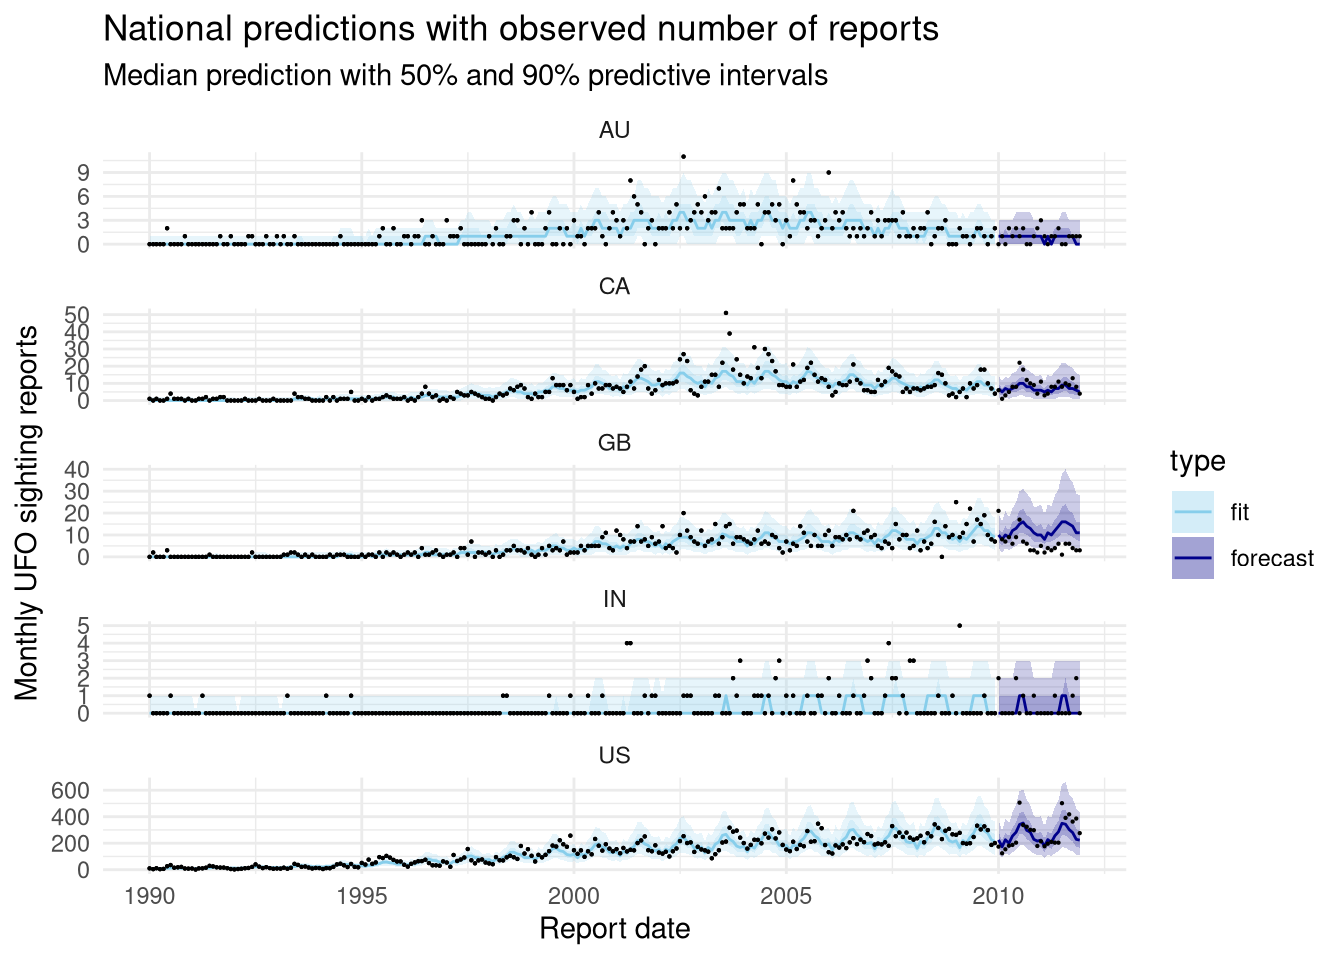
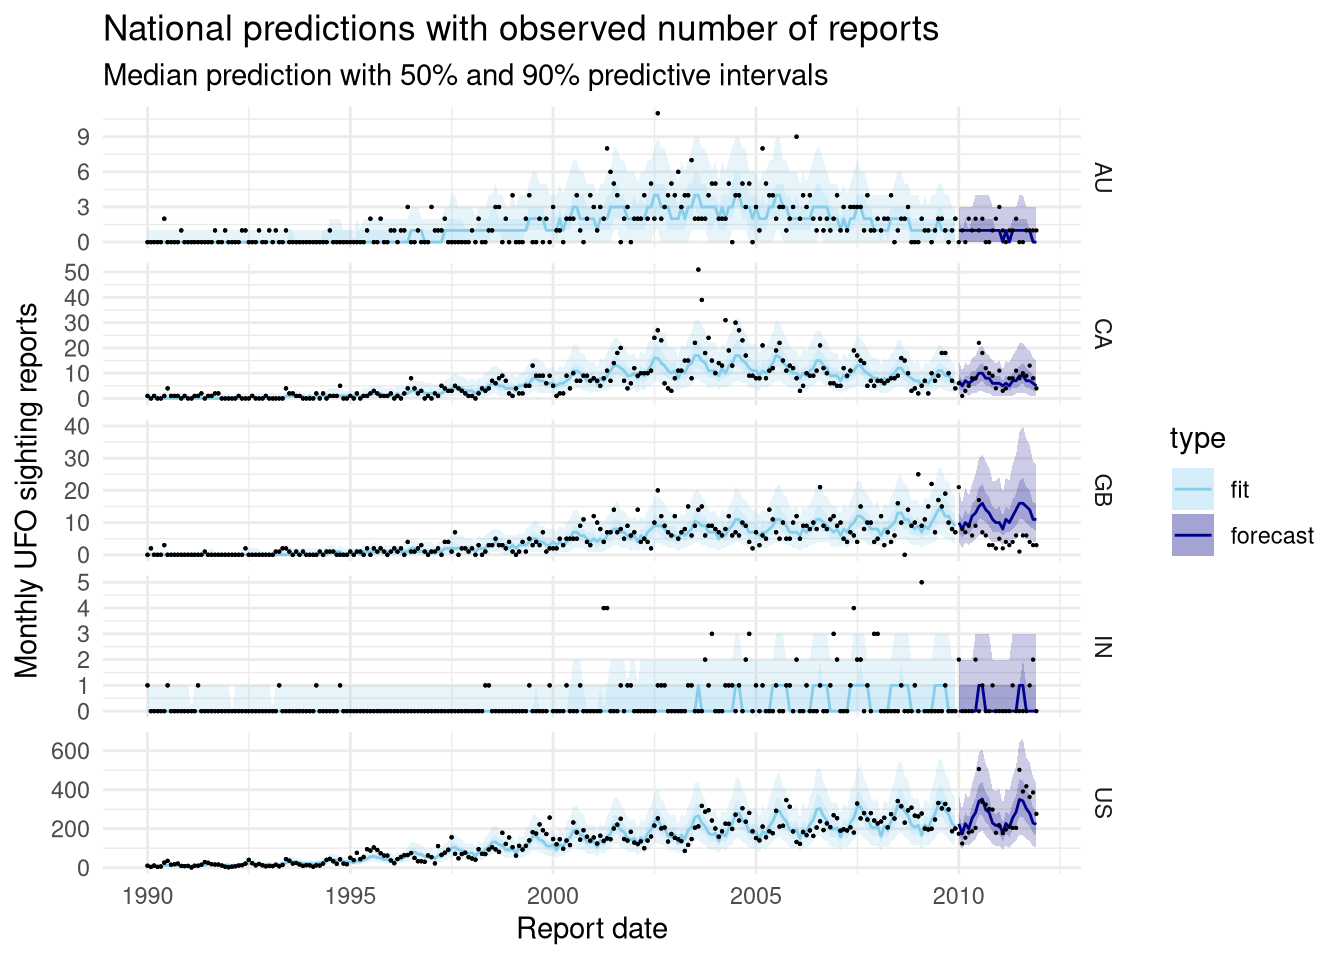
typos etc

diff --git a/_site/projects/unidentified-forecasting-object.html b/_site/projects/unidentified-forecasting-object.html
@@ -176,7 +176,7 @@ window.Quarto = {
 
 <meta name="twitter:title" content="Unidentified forecasting object – Jack Kennedy">
 <meta name="twitter:description" content="Using epidemiological forecasting methods to predict the number of reported UFO sightings">
-<meta name="twitter:image" content="unidentified-forecasting-object_files/figure-html/plot-sighting-1.png">
+<meta name="twitter:image" content="https://jcken95.github.io/projects/unidentified-forecasting-object_files/figure-html/plot-sighting-1.png">
 <meta name="twitter:card" content="summary_large_image">
 </head>
 
@@ -726,7 +726,7 @@ window.Quarto = {
 </div>
 <p>I’ve not displayed all the data here, just a few rows to get a feel for things. We know when and where the report was made, and we have a bit of an eye witness report. Apparently one UFO looked like a black tic-tac moving at insane speed, and apparently someone was even scanned by two aliens!</p>
 <p>I need to reshape this data to make modelling possible. In epidemiology, we often have a “line list” which is a bit like our set of reports. Each row will be the result of a test for a particular disease, as well as information about when the test was taken and information about who took the test (for example, their age and biological sex). Here we have a time of a report and a location – this is our line list!</p>
-<p>For modelling and patient-privacy reasons, we almost always work with a set of daily case totals rather than line lists. I’m therefore going to count up the number of reports made each month in each region, but I am going to restrict this analysis to countries who have reported at least 200 sightings. This is going to simplify the analysis later on as we will be working with fewer regions, but the overall principles, code, and mathematical ideas generalise, it’s basically just a case of scaling compute. In general, it’s a bad idea to omit a region solely due to infrequent or low reporting.</p>
+<p>For modelling and patient-privacy reasons, we almost always work with a set of daily case totals rather than line lists. I’m therefore going to count up the number of reports made each month in each country, but I am going to restrict this analysis to countries who have reported at least 200 sightings. This is going to simplify the analysis later on as we will be working with fewer regions, but the overall principles, code, and mathematical ideas generalise, it’s basically just a case of scaling compute. In general, it’s a bad idea to omit a region solely due to infrequent or low reporting.</p>
 <p>After a bit of wrangling we can get our data into a format which is the total number of reports per month, per region</p>
 <div class="cell">
 <details class="code-fold">
@@ -1250,7 +1250,7 @@ window.Quarto = {
 <span id="cb3-12"><a href="#cb3-12" aria-hidden="true" tabindex="-1"></a>  ggplot2<span class="sc">::</span><span class="fu">ggplot</span>(</span>
 <span id="cb3-13"><a href="#cb3-13" aria-hidden="true" tabindex="-1"></a>    ggplot2<span class="sc">::</span><span class="fu">aes</span>(<span class="at">x =</span> month_year, <span class="at">y =</span> sightings_month)</span>
 <span id="cb3-14"><a href="#cb3-14" aria-hidden="true" tabindex="-1"></a>  ) <span class="sc">+</span></span>
-<span id="cb3-15"><a href="#cb3-15" aria-hidden="true" tabindex="-1"></a>  ggplot2<span class="sc">::</span><span class="fu">geom_point</span>() <span class="sc">+</span></span>
+<span id="cb3-15"><a href="#cb3-15" aria-hidden="true" tabindex="-1"></a>  ggplot2<span class="sc">::</span><span class="fu">geom_point</span>(<span class="at">size =</span> <span class="fl">0.3</span>) <span class="sc">+</span></span>
 <span id="cb3-16"><a href="#cb3-16" aria-hidden="true" tabindex="-1"></a>  ggplot2<span class="sc">::</span><span class="fu">facet_wrap</span>(ggplot2<span class="sc">::</span><span class="fu">vars</span>(country_code), <span class="at">scales =</span> <span class="st">"free_y"</span>)<span class="sc">+</span></span>
 <span id="cb3-17"><a href="#cb3-17" aria-hidden="true" tabindex="-1"></a>  ggplot2<span class="sc">::</span><span class="fu">labs</span>(</span>
 <span id="cb3-18"><a href="#cb3-18" aria-hidden="true" tabindex="-1"></a>    <span class="at">x =</span> <span class="st">"Sighting date"</span>,</span>
@@ -1265,7 +1265,7 @@ window.Quarto = {
 </div>
 </div>
 </div>
-<p>The scale of the reporting patterns is very different by region. In the US we see up to hundreds of monthly reporting sightings during the 2000s and 2010, but moths other countries are reporting single or double-digit counts. However, there’s a simliar shape in each region - very low counts up until about 1990, a peak somewhere in the 2000-2010s and a decline into the 2020s.</p>
+<p>The scale of the reporting patterns is very different by region. In the US we see up to hundreds of monthly reporting sightings during the 2000s and 2010, but months other countries are reporting single or double-digit counts. However, there’s a similar shape in each country - very low counts up until about 1990, a peak somewhere in the 2000-2010s and a decline into the 2020s.</p>
 </section>
 <section id="the-modelling-basics" class="level1">
 <h1>The modelling basics</h1>
@@ -1275,10 +1275,10 @@ window.Quarto = {
 <p>Ensemble methods essentially take the predictions from multiple statistical models and combine them in the hope you achieve an overall more accurate forecast. Ensembles tend to be more robust than single-model predictions in two senses:</p>
 <ul>
 <li>Statistically robust: different models encode different assumptions. By ensembling, we are not relying on a single set of assumptions for our analysis.</li>
-<li>Operationally robust: code breaks, models sometimes behave weird, data feeds vanish with no prior warning. If we can’t get a model to run, or the output is not an epidemioligically plausible prediction, we can drop a models contribution to an ensemble and still output a forecast.</li>
+<li>Operationally robust: code breaks, models sometimes behave weird, data feeds vanish with no prior warning. If we can’t get a model to run, or the output is not an epidemiologically plausible prediction, we can drop a models contribution to an ensemble and still output a forecast.</li>
 </ul>
-<p>So when you’re fitting models every week to deliver to important people (politicians, scientists with wikipedia pages, people who work to save lives), you really can’t afford to put all your eggs in one basket.</p>
-<p>It is well known in the epidemiological forecasting literature that a diverse set of models tends to lead to a better ensemble. That means ensembling different assumptions as well as methods. Ensembles can include statitsical models (e.g.&nbsp;GAMs - more on those later), mechanistic models like the SIR model, and classic time series model (e.g.&nbsp;ARMA). There’s plenty of other things you can throw in too!</p>
+<p>So when you’re fitting models every week to deliver to important people (politicians, scientists with Wikipedia pages, people who work to save lives), you really can’t afford to put all your eggs in one basket.</p>
+<p>It is well known in the epidemiological forecasting literature that a diverse set of models tends to lead to a better ensemble. That means ensembling different assumptions as well as methods. Ensembles can include statistical models (e.g.&nbsp;GAMs - more on those later), mechanistic models like the SIR model, and classic time series model (e.g.&nbsp;ARMA). There’s plenty of other things you can throw in too!</p>
 <section id="quantile-averaging" class="level3">
 <h3 data-anchor-id="quantile-averaging">Quantile averaging</h3>
 <p>There are two ways that are commonly used in my field to construct ensembles. In <em>quantile averaging</em> we take a set of quantiles from a set of models, then the quantiles of the ensemble are the average values of the quantiles from each contributing model. If <span class="math inline">\(q^m(p)\)</span> is the <span class="math inline">\(p\%\)</span> quantile of the prediction from model <span class="math inline">\(m\)</span>, then we can map the following component model quantiles to ensemble quantiles:</p>
@@ -1289,7 +1289,7 @@ window.Quarto = {
 \begin{pmatrix} q^M(0.05) \\ q^M(0.10) \\ \vdots  \\ q^M(0.50) \\ \vdots \\ q^M(0.90) \\ q^M(0.95) \end{pmatrix}
 \overset{\text{ensemble}}{\rightarrow}
 \begin{pmatrix} \bar{q}(0.05) \\ \bar{q}(0.10) \\ \vdots  \\ \bar{q}(0.50) \\ \vdots \\\bar{q}(0.90) \\ \bar{q}(0.95) \end{pmatrix}
-\]</span> Here we’ve used the mean to average the quantiles. The median might also be used.</p>
+\]</span> Here we’ve used the mean to average the quantiles. The median of the quantiles might also be used.</p>
 <p>The method is great for “forecasting hubs”. Lots of public health agencies allow modelling teams to submit there own forecasts of a epidemic as a collection of quantiles, then the hub aggregates the submitted predictions and outputs ensemble. For example, the US’s CDC had a <a href="https://covid19forecasthub.org/">COVID-19 forecasting hub</a>. It’s an efficient way to construct ensembles, however, the mean of a collection of quantiles is not the same as the “true” quantile of the ensemble.</p>
 </section>
 <section id="posterior-stacking" class="level3">
@@ -1324,7 +1324,7 @@ y(t, r) \sim \text{NegBin}(\mu(t, r), \varphi)
 <span id="cb4-6"><a href="#cb4-6" aria-hidden="true" tabindex="-1"></a>  <span class="at">family =</span> <span class="st">"nb"</span></span>
 <span id="cb4-7"><a href="#cb4-7" aria-hidden="true" tabindex="-1"></a>)</span></code></pre></div><button title="Copy to Clipboard" class="code-copy-button"><i class="bi"></i></button></div>
 </div>
-<p>where <code>t_numeric</code> is our time variable, <code>country_code</code> is a factor representing the country, <code>transformed_lengthscale</code> is a hyperparameter of our GP and <code>input_data</code> is our data used to fit the model. This correpsonds to a model with only regional smooths (so no <span class="math inline">\(s(t)\)</span>) term.</p>
+<p>where <code>t_numeric</code> is our time variable, <code>country_code</code> is a factor representing the country, <code>transformed_lengthscale</code> is a hyperparameter of our GP and <code>input_data</code> is our data used to fit the model. This corresponds to a model with only regional smooths (so no <span class="math inline">\(s(t)\)</span>) term.</p>
 <p>I’m not going to walk through all the other models I build for this analysis, but they’re GAMs with different approaches to smoothing. You can investigate the model details <a href="https://github.com/jcken95/unidentified-forecasting-object/tree/main/models">here</a>.</p>
 <p>What is really important across our suite of ensemble models is a consistent set of inputs and output from the model: we can then apply the same pre and post processing model inputs and outputs.</p>
 <p>For this very simple sample we will have models that look a bit like this</p>
@@ -1342,7 +1342,7 @@ y(t, r) \sim \text{NegBin}(\mu(t, r), \varphi)
 </div>
 <p>In my models, the columns are</p>
 <ul>
-<li><code>.row</code> a “spine” for interal modelling</li>
+<li><code>.row</code> a “spine” for internal modelling</li>
 <li><code>.draw</code> an ID for the posterior sample draw</li>
 <li><code>.reponse</code> the predicted value (for that sample-location-time combination)</li>
 <li><code>month_year</code> the date</li>
@@ -1356,7 +1356,8 @@ y(t, r) \sim \text{NegBin}(\mu(t, r), \varphi)
 <p>This consistency means my model post-processing and ensembling is fairly straight forward.</p>
 <section id="fitting-the-ensemble" class="level3">
 <h3 data-anchor-id="fitting-the-ensemble">Fitting the ensemble</h3>
-<p>The following collapsed snippet reads all the models in straight from my github repo - ideally I’d wrap this all up in a paclage or something but this is quick and easy. I wouldn’t advise running <code>source()</code> on any old files off the internet normally. I’m also going to store all my model functions in a list for a neat functional-programming approach to model fitting later.</p>
+<p>The following collapsed snippet reads all the models in straight from my github repo - ideally I’d wrap this all up in a package or something but this is quick and easy. I wouldn’t advise running <code>source()</code> on any old files off the internet normally. I’m also going to store all my model functions in a list for a neat functional-programming approach to model fitting later.</p>
+<p>I will have an ensemble based on four models. GAMs with the following smoothers: Gaussian process, thin plate splines, cubic regression splines and p splines.</p>
 <div class="cell">
 <details class="code-fold">
 <summary>Show code</summary>
@@ -1400,7 +1401,7 @@ y(t, r) \sim \text{NegBin}(\mu(t, r), \varphi)
 <span id="cb8-2"><a href="#cb8-2" aria-hidden="true" tabindex="-1"></a></span>
 <span id="cb8-3"><a href="#cb8-3" aria-hidden="true" tabindex="-1"></a>gp_fit <span class="ot">&lt;-</span> <span class="fu">gaussian_process</span>(fit_data, forecast_horizon)</span></code></pre></div><button title="Copy to Clipboard" class="code-copy-button"><i class="bi"></i></button></div>
 </div>
-<p>And then let’s make a quick plot to check the forecasts. We will plot the median, 50% and 90% predictive quangtiles against “future” values</p>
+<p>And then let’s make a quick plot to check the forecasts. We will plot the median, 50% and 90% predictive quantiles against “future” values</p>
 <div class="cell">
 <div class="code-copy-outer-scaffold"><div class="sourceCode cell-code" id="cb9"><pre class="sourceCode r code-with-copy"><code class="sourceCode r"><span id="cb9-1"><a href="#cb9-1" aria-hidden="true" tabindex="-1"></a>plot_colours <span class="ot">&lt;-</span> <span class="fu">c</span>(</span>
 <span id="cb9-2"><a href="#cb9-2" aria-hidden="true" tabindex="-1"></a>  <span class="st">"fit"</span> <span class="ot">=</span> <span class="st">"skyblue"</span>, <span class="at">forecast =</span> <span class="st">"darkblue"</span></span>
@@ -1460,7 +1461,7 @@ y(t, r) \sim \text{NegBin}(\mu(t, r), \varphi)
 <section id="building-up-an-ensemble" class="level2">
 <h2 data-anchor-id="building-up-an-ensemble">Building up an ensemble</h2>
 <p>Now we’ve built a single-model forecast, we want to scale up to an ensemble-based workflow. I’m going to use the {purrr} package and a neat little trick to generate our ensemble with (excluding the model functions themselves), just two function calls!</p>
-<p>If you’re not familiar with {purrr}, <code>purrr:map()</code> lets us iterate over elements of a list, it’s basically an implementation of a <code>for</code> loop or reframing of <code>apply()</code> type functions. Remember earlier I stored all my model functions in a named list called <code>models</code>? Well I can <code>purrr::map()</code> over these models and stack all the results in a data frame to create our ensemble. I’d used <code>map()</code> a lot in the past to iterate over data (e.g.&nbsp;apply the same functions to different data sets), but the first time I saw the inverse: apply different functions to the same data I thought that was actually pretty cool.</p>
+<p>If you’re not familiar with {purrr}, <code>purrr:map()</code> lets us iterate over elements of a list, it’s basically an implementation of a <code>for</code> loop or reframing of <code>apply()</code> type functions. Remember earlier I stored all my model functions in a named list called <code>models</code>? Well I can <code>purrr::map()</code> over these models and stack all the results in a data frame to create our ensemble. I’d used <code>purrr::map()</code> a lot in the past to iterate over data (e.g.&nbsp;apply the same functions to different data sets), but the first time I saw the inverse: apply different functions to the same data I thought that was actually pretty cool.</p>
 <div class="cell">
 <div class="code-copy-outer-scaffold"><div class="sourceCode cell-code" id="cb10"><pre class="sourceCode r code-with-copy"><code class="sourceCode r"><span id="cb10-1"><a href="#cb10-1" aria-hidden="true" tabindex="-1"></a>model_fits <span class="ot">&lt;-</span> models <span class="sc">|&gt;</span></span>
 <span id="cb10-2"><a href="#cb10-2" aria-hidden="true" tabindex="-1"></a>  <span class="co"># fit each element of models to the data (and generate a forecast)</span></span>
@@ -1503,7 +1504,7 @@ y(t, r) \sim \text{NegBin}(\mu(t, r), \varphi)
 <span id="cb11-29"><a href="#cb11-29" aria-hidden="true" tabindex="-1"></a>  ggplot2<span class="sc">::</span><span class="fu">geom_point</span>(</span>
 <span id="cb11-30"><a href="#cb11-30" aria-hidden="true" tabindex="-1"></a>    <span class="at">data =</span> fit_data,</span>
 <span id="cb11-31"><a href="#cb11-31" aria-hidden="true" tabindex="-1"></a>    <span class="at">mapping =</span> ggplot2<span class="sc">::</span><span class="fu">aes</span>(<span class="at">x =</span> month_year, <span class="at">y =</span> sightings_month), <span class="at">size =</span> <span class="fl">0.1</span>) <span class="sc">+</span></span>
-<span id="cb11-32"><a href="#cb11-32" aria-hidden="true" tabindex="-1"></a>  ggplot2<span class="sc">::</span><span class="fu">facet_wrap</span>(<span class="sc">~</span>country_code, <span class="at">scale =</span> <span class="st">"free_y"</span>, <span class="at">ncol =</span> <span class="dv">1</span>) <span class="sc">+</span></span>
+<span id="cb11-32"><a href="#cb11-32" aria-hidden="true" tabindex="-1"></a>  ggplot2<span class="sc">::</span><span class="fu">facet_grid</span>(ggplot2<span class="sc">::</span><span class="fu">vars</span>(country_code), <span class="at">scale =</span> <span class="st">"free_y"</span>) <span class="sc">+</span></span>
 <span id="cb11-33"><a href="#cb11-33" aria-hidden="true" tabindex="-1"></a>  ggplot2<span class="sc">::</span><span class="fu">scale_fill_manual</span>(<span class="at">values =</span> plot_colours) <span class="sc">+</span></span>
 <span id="cb11-34"><a href="#cb11-34" aria-hidden="true" tabindex="-1"></a>  ggplot2<span class="sc">::</span><span class="fu">scale_colour_manual</span>(<span class="at">values =</span> plot_colours) <span class="sc">+</span></span>
 <span id="cb11-35"><a href="#cb11-35" aria-hidden="true" tabindex="-1"></a>  ggplot2<span class="sc">::</span><span class="fu">theme_minimal</span>() <span class="sc">+</span></span>
@@ -1759,7 +1760,7 @@ y(t, r) \sim \text{NegBin}(\mu(t, r), \varphi)
     }
       var localhostRegex = new RegExp(/^(?:http|https):\/\/localhost\:?[0-9]*\//);
       var mailtoRegex = new RegExp(/^mailto:/);
-        var filterRegex = new RegExp('/' + window.location.host + '/');
+        var filterRegex = new RegExp("https:\/\/jcken95\.github\.io\/");
       var isInternal = (href) => {
           return filterRegex.test(href) || localhostRegex.test(href) || mailtoRegex.test(href);
       }

diff --git a/_site/projects.html b/_site/projects.html
@@ -223,7 +223,7 @@ window.Quarto = {
 
 <div class="quarto-listing quarto-listing-container-grid" id="listing-listing">
 <div class="list grid quarto-listing-cols-3">
-<div class="g-col-1" data-index="0" data-listing-date-sort="1794787200000" data-listing-file-modified-sort="1795555765801" data-listing-date-modified-sort="NaN" data-listing-reading-time-sort="22" data-listing-word-count-sort="4315">
+<div class="g-col-1" data-index="0" data-listing-date-sort="1794787200000" data-listing-file-modified-sort="1795557568329" data-listing-date-modified-sort="NaN" data-listing-reading-time-sort="22" data-listing-word-count-sort="4341">
 <a href="./projects/unidentified-forecasting-object.html" class="quarto-grid-link no-external-icon">
 <div class="quarto-grid-item card h-100 card-left">
 <div class="card-body post-contents">
@@ -362,7 +362,7 @@ Nov 9, 2022
     }
       var localhostRegex = new RegExp(/^(?:http|https):\/\/localhost\:?[0-9]*\//);
       var mailtoRegex = new RegExp(/^mailto:/);
-        var filterRegex = new RegExp('/' + window.location.host + '/');
+        var filterRegex = new RegExp("https:\/\/jcken95\.github\.io\/");
       var isInternal = (href) => {
           return filterRegex.test(href) || localhostRegex.test(href) || mailtoRegex.test(href);
       }

diff --git a/_site/projects/code_review.html b/_site/projects/code_review.html
@@ -113,7 +113,7 @@ cookieconsent.run({
 
 <meta name="twitter:title" content="Code review for statisticians, data scientists &amp; modellers – Jack Kennedy">
 <meta name="twitter:description" content="Software developers have some really good approaches to code review. Here’s a data scientist’s plea to listen to the software developers!">
-<meta name="twitter:image" content="code_review/plus_symbol.png">
+<meta name="twitter:image" content="https://jcken95.github.io/projects/code_review/plus_symbol.png">
 <meta name="twitter:card" content="summary_large_image">
 </head>
 
@@ -537,7 +537,7 @@ cookieconsent.run({
     }
       var localhostRegex = new RegExp(/^(?:http|https):\/\/localhost\:?[0-9]*\//);
       var mailtoRegex = new RegExp(/^mailto:/);
-        var filterRegex = new RegExp('/' + window.location.host + '/');
+        var filterRegex = new RegExp("https:\/\/jcken95\.github\.io\/");
       var isInternal = (href) => {
           return filterRegex.test(href) || localhostRegex.test(href) || mailtoRegex.test(href);
       }

diff --git a/_site/projects/creepr.html b/_site/projects/creepr.html
@@ -344,7 +344,7 @@ cookieconsent.run({
     }
       var localhostRegex = new RegExp(/^(?:http|https):\/\/localhost\:?[0-9]*\//);
       var mailtoRegex = new RegExp(/^mailto:/);
-        var filterRegex = new RegExp('/' + window.location.host + '/');
+        var filterRegex = new RegExp("https:\/\/jcken95\.github\.io\/");
       var isInternal = (href) => {
           return filterRegex.test(href) || localhostRegex.test(href) || mailtoRegex.test(href);
       }
